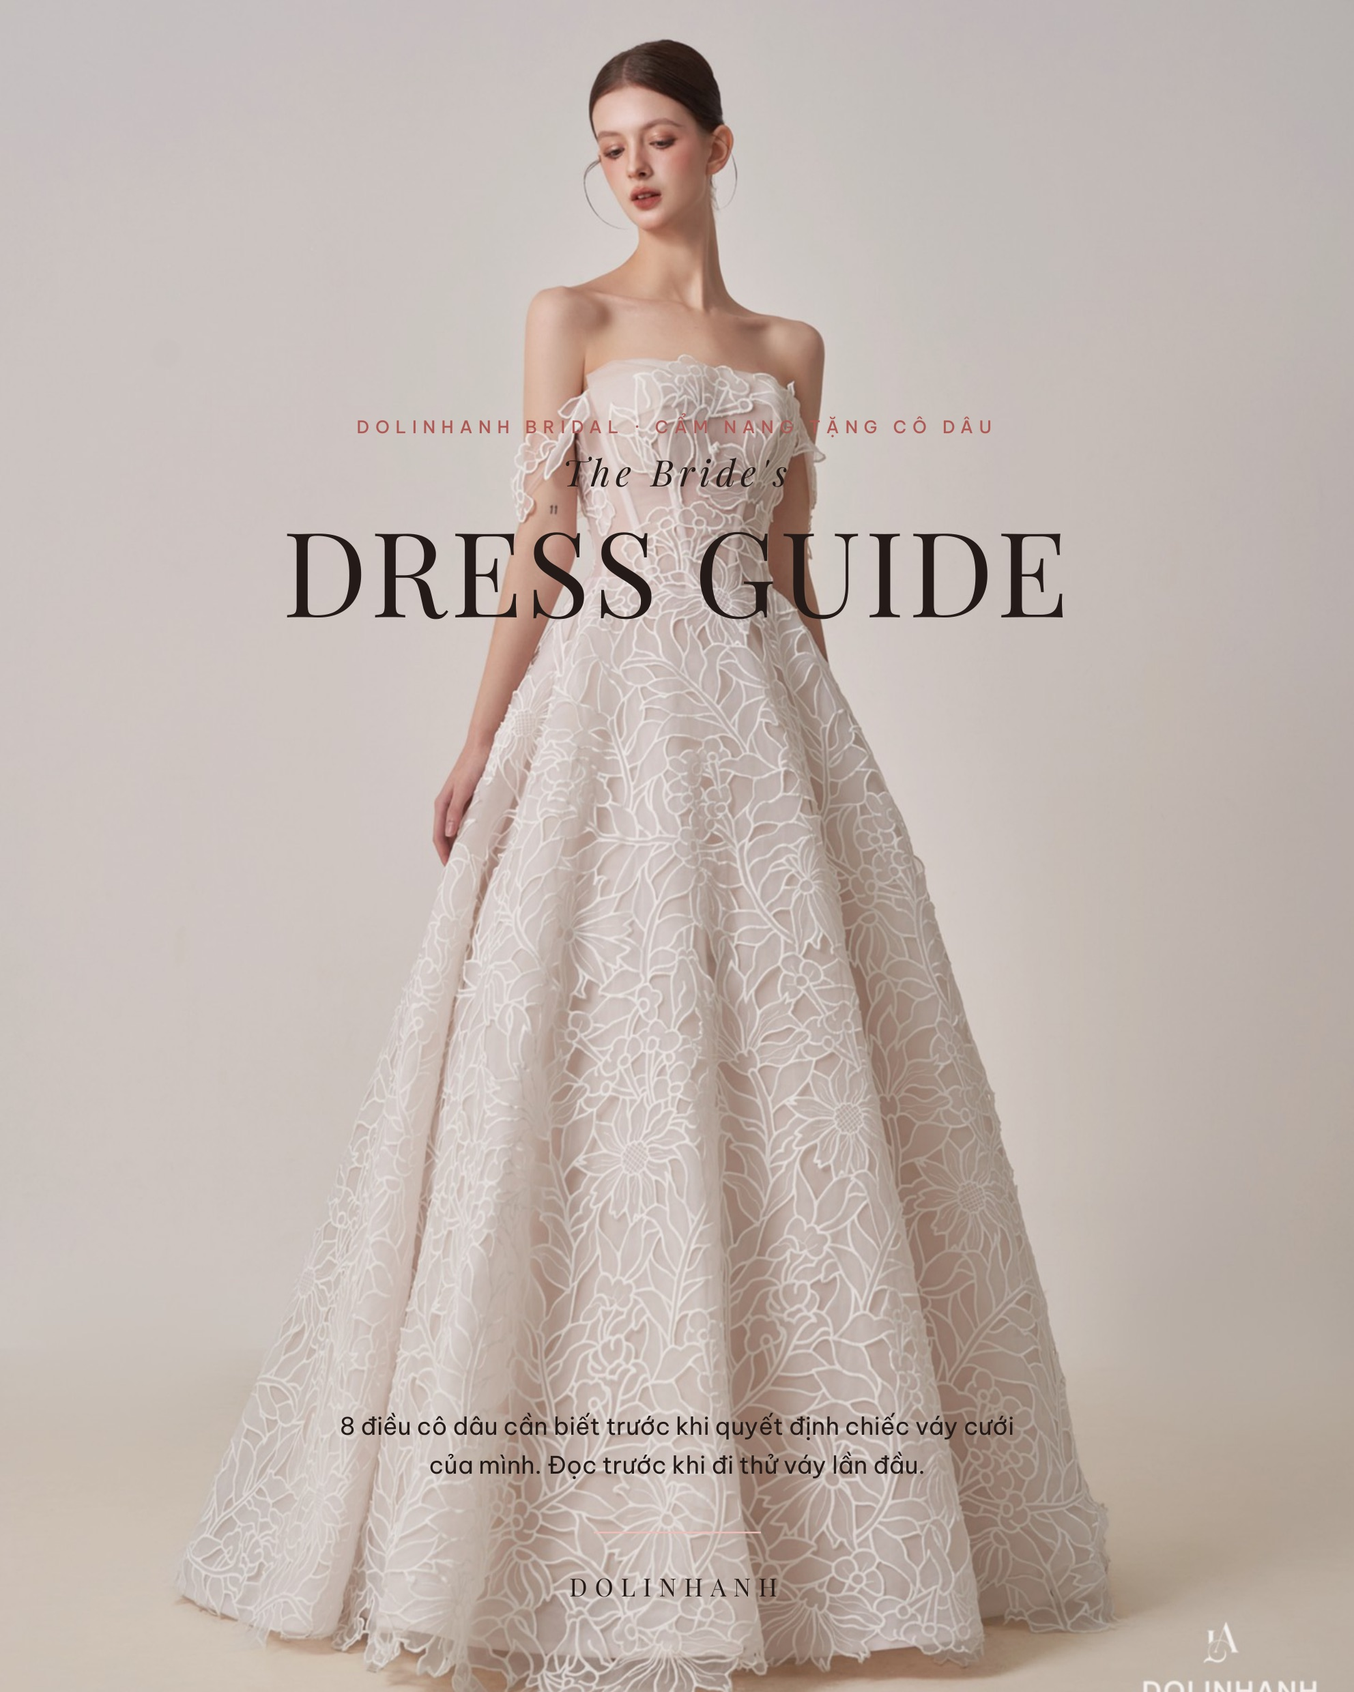
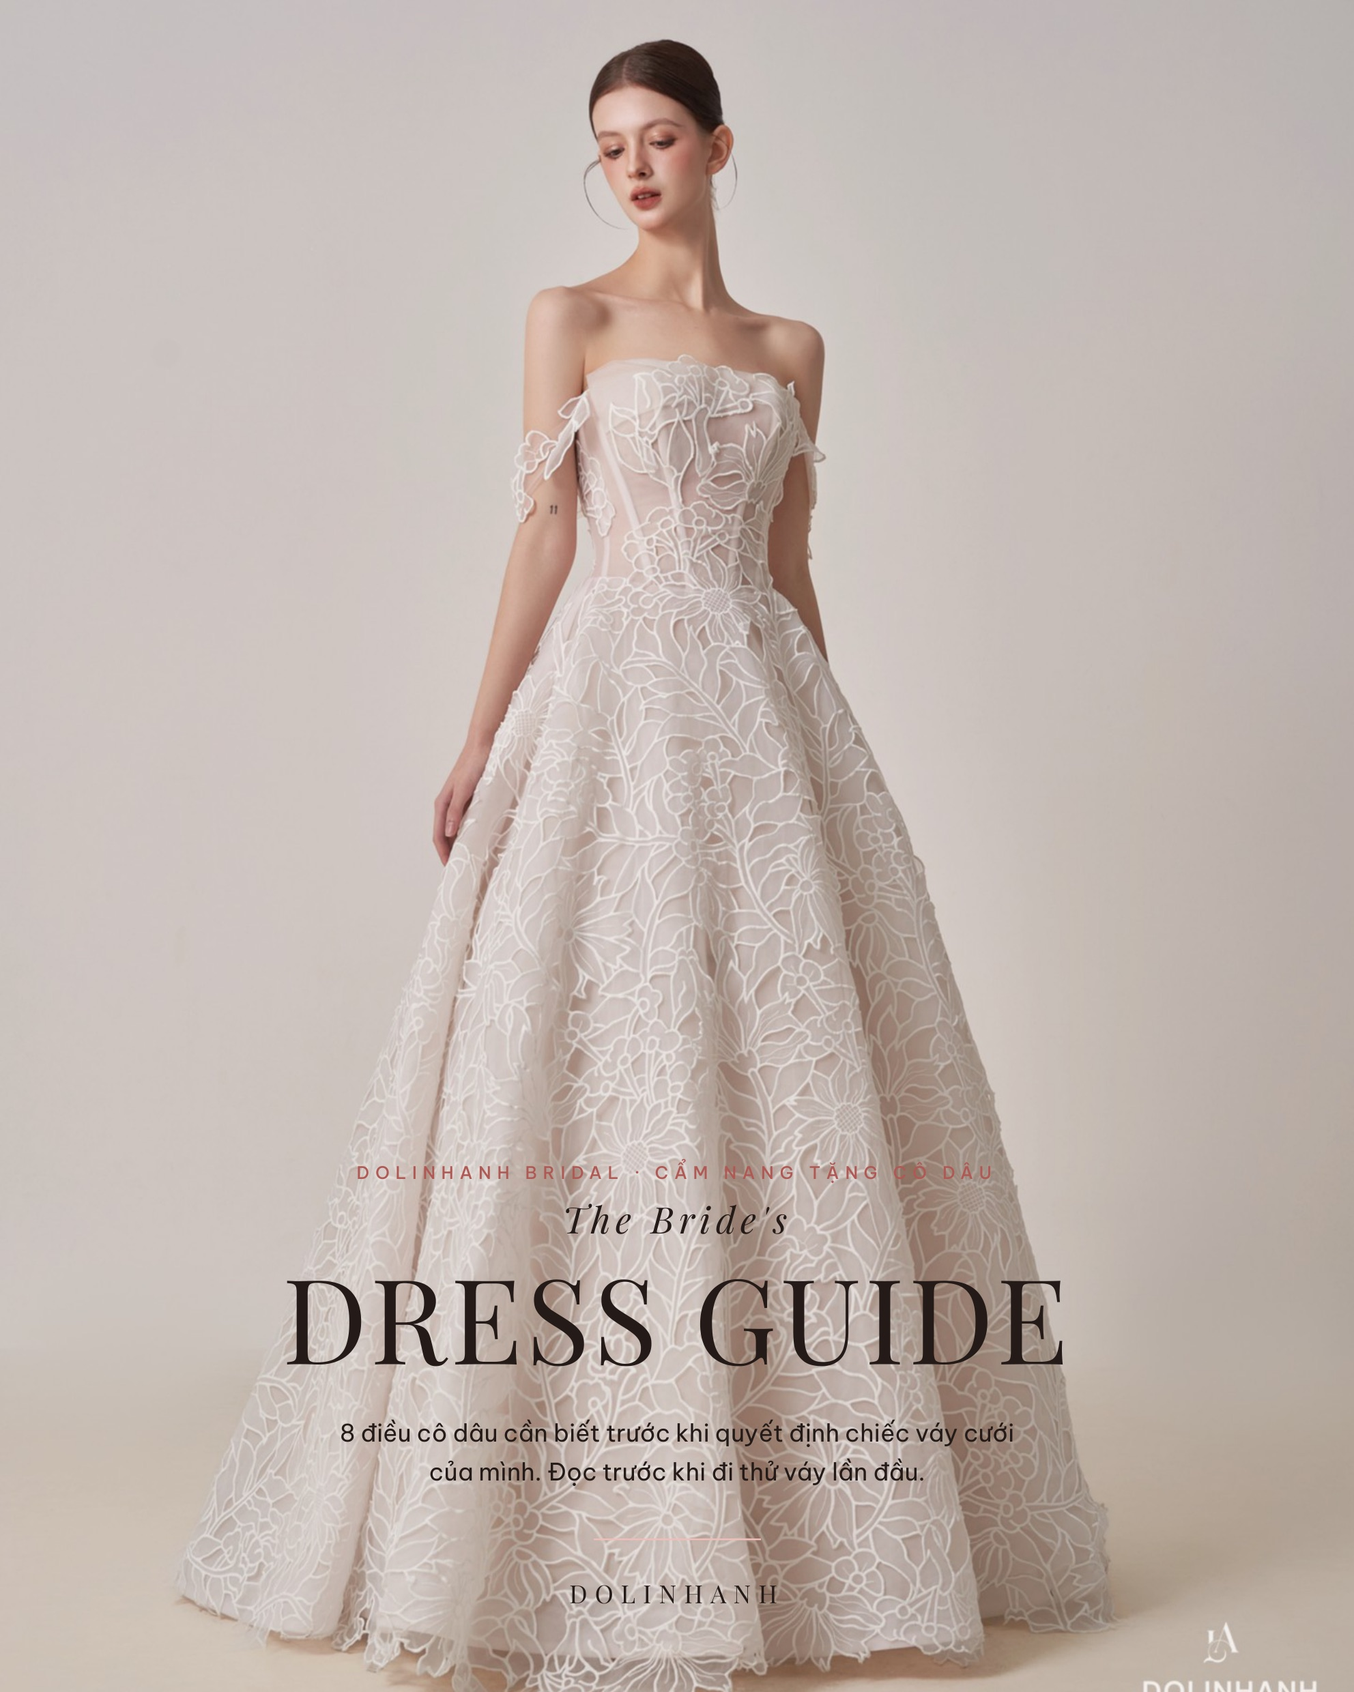
Ebook: bia - cum chu don xuong chan trang (v y291046)

diff --git a/dress-guide.html b/dress-guide.html
@@ -4,7 +4,7 @@
 <meta charset="utf-8">
 <meta name="viewport" content="width=device-width,initial-scale=1">
 <meta name="description" content="Cẩm nang tặng cô dâu: 7 điều cần biết trước khi chọn váy cưới — Dolinhanh Bridal.">
-<script>window.__ANH__=["dress-guide/t01.jpg?v=y291043", "dress-guide/t02.jpg?v=y291043", "dress-guide/t03.jpg?v=y291043", "dress-guide/t04.jpg?v=y291043", "dress-guide/t05.jpg?v=y291043", "dress-guide/t06.jpg?v=y291043", "dress-guide/t07.jpg?v=y291043", "dress-guide/t08.jpg?v=y291043", "dress-guide/t09.jpg?v=y291043", "dress-guide/t10.jpg?v=y291043", "dress-guide/t11.jpg?v=y291043", "dress-guide/t12.jpg?v=y291043", "dress-guide/t13.jpg?v=y291043", "dress-guide/t14.jpg?v=y291043", "dress-guide/t15.jpg?v=y291043", "dress-guide/t16.jpg?v=y291043", "dress-guide/t17.jpg?v=y291043", "dress-guide/t18.jpg?v=y291043", "dress-guide/t19.jpg?v=y291043", "dress-guide/t20.jpg?v=y291043", "dress-guide/t21.jpg?v=y291043", "dress-guide/t22.jpg?v=y291043", "dress-guide/t23.jpg?v=y291043", "dress-guide/t24.jpg?v=y291043", "dress-guide/t25.jpg?v=y291043", "dress-guide/t26.jpg?v=y291043", "dress-guide/t27.jpg?v=y291043"];window.__ANH_DT__=["dress-guide-dt/t001.jpg?v=y291043", "dress-guide-dt/t002.jpg?v=y291043", "dress-guide-dt/t003.jpg?v=y291043", "dress-guide-dt/t004.jpg?v=y291043", "dress-guide-dt/t005.jpg?v=y291043", "dress-guide-dt/t006.jpg?v=y291043", "dress-guide-dt/t007.jpg?v=y291043", "dress-guide-dt/t008.jpg?v=y291043", "dress-guide-dt/t009.jpg?v=y291043", "dress-guide-dt/t010.jpg?v=y291043", "dress-guide-dt/t011.jpg?v=y291043", "dress-guide-dt/t012.jpg?v=y291043", "dress-guide-dt/t013.jpg?v=y291043", "dress-guide-dt/t014.jpg?v=y291043", "dress-guide-dt/t015.jpg?v=y291043", "dress-guide-dt/t016.jpg?v=y291043", "dress-guide-dt/t017.jpg?v=y291043", "dress-guide-dt/t018.jpg?v=y291043", "dress-guide-dt/t019.jpg?v=y291043", "dress-guide-dt/t020.jpg?v=y291043", "dress-guide-dt/t021.jpg?v=y291043", "dress-guide-dt/t022.jpg?v=y291043", "dress-guide-dt/t023.jpg?v=y291043", "dress-guide-dt/t024.jpg?v=y291043", "dress-guide-dt/t025.jpg?v=y291043", "dress-guide-dt/t026.jpg?v=y291043", "dress-guide-dt/t027.jpg?v=y291043", "dress-guide-dt/t028.jpg?v=y291043", "dress-guide-dt/t029.jpg?v=y291043", "dress-guide-dt/t030.jpg?v=y291043", "dress-guide-dt/t031.jpg?v=y291043", "dress-guide-dt/t032.jpg?v=y291043", "dress-guide-dt/t033.jpg?v=y291043", "dress-guide-dt/t034.jpg?v=y291043", "dress-guide-dt/t035.jpg?v=y291043", "dress-guide-dt/t036.jpg?v=y291043", "dress-guide-dt/t037.jpg?v=y291043", "dress-guide-dt/t038.jpg?v=y291043", "dress-guide-dt/t039.jpg?v=y291043", "dress-guide-dt/t040.jpg?v=y291043", "dress-guide-dt/t041.jpg?v=y291043", "dress-guide-dt/t042.jpg?v=y291043", "dress-guide-dt/t043.jpg?v=y291043", "dress-guide-dt/t044.jpg?v=y291043", "dress-guide-dt/t045.jpg?v=y291043", "dress-guide-dt/t046.jpg?v=y291043", "dress-guide-dt/t047.jpg?v=y291043", "dress-guide-dt/t048.jpg?v=y291043", "dress-guide-dt/t049.jpg?v=y291043"];window.__TI_DT__=1.777;window.__DIEM_DT__=[{"nhan": "Đọc vị bản thân", "ten": "Làm bài trắc nghiệm tại đây", "mo": "", "quiz": true, "p": 6, "x": 0.2713, "y": 0.1401, "w": 0.4323, "h": 0.0265}, {"nhan": "Chuẩn bị trước buổi thử", "ten": "Đồ lót nào mặc được?", "mo": "Nguyên tắc chung: màu nude, không quai, không gọng to, không đường viền. Bốn kiểu trong hình đều dùng được cho gần như mọi mẫu váy. Phần lớn váy cưới đã có corset nâng và mút đệm ngực khâu sẵn — nhiều cô dâu chỉ mặc quần lót nude là đủ.", "p": 10, "x": 0.213, "y": 0.2374, "w": 0.2757, "h": 0.0278, "toi": 12, "anh": "dress-guide/hs-dolot.jpg?v=y291043"}, {"nhan": "Chuẩn bị trước buổi thử", "ten": "Ngày cưới nên mang mấy đôi?", "mo": "Ba đôi là đủ cho mọi tình huống. Đế bánh mì đi trong váy xoè — tùng váy che kín dép, đứng cả buổi không mỏi chân. Cao gót cho những mẫu hở chân như đuôi cá hay xẻ tà, gót 5–7cm là vừa. Và một đôi đế thấp để trong phòng chờ, khi chân đã mỏi thì thay ra.", "p": 10, "x": 0.138, "y": 0.3438, "w": 0.7211, "h": 0.0571, "toi": 14, "anh": "dress-guide/hs-giay.jpg?v=y291043"}, {"nhan": "Chuẩn bị trước buổi thử", "ten": "Vì sao lại là 5 mẫu?", "mo": "Năm mẫu vừa đủ để so bốn dáng cơ bản và thêm một mẫu “lạ” cho biết, mà không loạn. Gửi trước danh sách cho shop để váy được treo sẵn — đỡ mất ba mươi phút đầu buổi chỉ để đi tìm váy.", "p": 10, "x": 0.5176, "y": 0.6563, "w": 0.3832, "h": 0.0278}, {"nhan": "Bước tiếp theo", "ten": "Cẩm nang cưới — 99.000đ", "mo": "Năm mươi tám trang, sáu chặng, mỗi chặng một màu và có ảnh riêng. Mở đầu bằng bài trắc nghiệm tính cách theo DISC cho cả hai người, rồi tới 30 câu hai người phải hỏi nhau, hai gia đình, sáu tháng chuẩn bị (gồm trọn phần chọn váy), ngày cưới, và phần sau đám cưới.", "lien": "https://dolinhanh-bridal.github.io/web-thu/mua-planner.html", "nutChu": "Xem thử vài trang", "p": 48, "x": 0.1372, "y": 0.4388, "w": 0.2862, "h": 0.1902, "anh": "dress-guide/hs-planner.jpg?v=y291043"}, {"nhan": "Bước tiếp theo", "ten": "Nhắn Zalo để nhận file", "mo": "Chuyển khoản xong, bạn nhắn ảnh chụp màn hình tới Zalo 035 995 0588. Dolinhanh gửi lại file PDF và đường dẫn đọc trên điện thoại ngay trong ngày.", "lien": "https://zalo.me/0359950588", "nutChu": "Mở Zalo 035 995 0588", "p": 48, "x": 0.3828, "y": 0.7382, "w": 0.2156, "h": 0.0251}];window.__DIEM__=[{"nhan": "Đọc vị bản thân", "ten": "Làm bài trắc nghiệm tại đây", "mo": "", "quiz": true, "p": 5, "x": 0.2013, "y": 0.153, "w": 0.2397, "h": 0.0207}, {"nhan": "Chuẩn bị trước buổi thử", "ten": "Đồ lót nào mặc được?", "mo": "Nguyên tắc chung: màu nude, không quai, không gọng to, không đường viền. Bốn kiểu trong hình đều dùng được cho gần như mọi mẫu váy. Phần lớn váy cưới đã có corset nâng và mút đệm ngực khâu sẵn — nhiều cô dâu chỉ mặc quần lót nude là đủ.", "p": 7, "x": 0.1707, "y": 0.2032, "w": 0.1469, "h": 0.0211, "toi": 8, "anh": "dress-guide/hs-dolot.jpg?v=y291043"}, {"nhan": "Chuẩn bị trước buổi thử", "ten": "Ngày cưới nên mang mấy đôi?", "mo": "Ba đôi là đủ cho mọi tình huống. Đế bánh mì đi trong váy xoè — tùng váy che kín dép, đứng cả buổi không mỏi chân. Cao gót cho những mẫu hở chân như đuôi cá hay xẻ tà, gót 5–7cm là vừa. Và một đôi đế thấp để trong phòng chờ, khi chân đã mỏi thì thay ra.", "p": 7, "x": 0.2229, "y": 0.2616, "w": 0.4041, "h": 0.0211, "toi": 9, "anh": "dress-guide/hs-giay.jpg?v=y291043"}, {"nhan": "Chuẩn bị trước buổi thử", "ten": "Vì sao lại là 5 mẫu?", "mo": "Năm mẫu vừa đủ để so bốn dáng cơ bản và thêm một mẫu “lạ” cho biết, mà không loạn. Gửi trước danh sách cho shop để váy được treo sẵn — đỡ mất ba mươi phút đầu buổi chỉ để đi tìm váy.", "p": 7, "x": 0.333, "y": 0.4108, "w": 0.2042, "h": 0.0211}, {"nhan": "Bước tiếp theo", "ten": "Cẩm nang cưới — 99.000đ", "mo": "Năm mươi tám trang, sáu chặng, mỗi chặng một màu và có ảnh riêng. Mở đầu bằng bài trắc nghiệm tính cách theo DISC cho cả hai người, rồi tới 30 câu hai người phải hỏi nhau, hai gia đình, sáu tháng chuẩn bị (gồm trọn phần chọn váy), ngày cưới, và phần sau đám cưới.", "lien": "https://dolinhanh-bridal.github.io/web-thu/mua-planner.html", "nutChu": "Xem thử vài trang", "p": 26, "x": 0.1248, "y": 0.7732, "w": 0.1525, "h": 0.1442, "anh": "dress-guide/hs-planner.jpg?v=y291043"}, {"nhan": "Bước tiếp theo", "ten": "Nhắn Zalo để nhận file", "mo": "Chuyển khoản xong, bạn nhắn ảnh chụp màn hình tới Zalo 035 995 0588. Dolinhanh gửi lại file PDF và đường dẫn đọc trên điện thoại ngay trong ngày.", "lien": "https://zalo.me/0359950588", "nutChu": "Mở Zalo 035 995 0588", "p": 26, "x": 0.3035, "y": 0.858, "w": 0.1149, "h": 0.0191}];</script>
+<script>window.__ANH__=["dress-guide/t01.jpg?v=y291046", "dress-guide/t02.jpg?v=y291046", "dress-guide/t03.jpg?v=y291046", "dress-guide/t04.jpg?v=y291046", "dress-guide/t05.jpg?v=y291046", "dress-guide/t06.jpg?v=y291046", "dress-guide/t07.jpg?v=y291046", "dress-guide/t08.jpg?v=y291046", "dress-guide/t09.jpg?v=y291046", "dress-guide/t10.jpg?v=y291046", "dress-guide/t11.jpg?v=y291046", "dress-guide/t12.jpg?v=y291046", "dress-guide/t13.jpg?v=y291046", "dress-guide/t14.jpg?v=y291046", "dress-guide/t15.jpg?v=y291046", "dress-guide/t16.jpg?v=y291046", "dress-guide/t17.jpg?v=y291046", "dress-guide/t18.jpg?v=y291046", "dress-guide/t19.jpg?v=y291046", "dress-guide/t20.jpg?v=y291046", "dress-guide/t21.jpg?v=y291046", "dress-guide/t22.jpg?v=y291046", "dress-guide/t23.jpg?v=y291046", "dress-guide/t24.jpg?v=y291046", "dress-guide/t25.jpg?v=y291046", "dress-guide/t26.jpg?v=y291046", "dress-guide/t27.jpg?v=y291046"];window.__ANH_DT__=["dress-guide-dt/t001.jpg?v=y291046", "dress-guide-dt/t002.jpg?v=y291046", "dress-guide-dt/t003.jpg?v=y291046", "dress-guide-dt/t004.jpg?v=y291046", "dress-guide-dt/t005.jpg?v=y291046", "dress-guide-dt/t006.jpg?v=y291046", "dress-guide-dt/t007.jpg?v=y291046", "dress-guide-dt/t008.jpg?v=y291046", "dress-guide-dt/t009.jpg?v=y291046", "dress-guide-dt/t010.jpg?v=y291046", "dress-guide-dt/t011.jpg?v=y291046", "dress-guide-dt/t012.jpg?v=y291046", "dress-guide-dt/t013.jpg?v=y291046", "dress-guide-dt/t014.jpg?v=y291046", "dress-guide-dt/t015.jpg?v=y291046", "dress-guide-dt/t016.jpg?v=y291046", "dress-guide-dt/t017.jpg?v=y291046", "dress-guide-dt/t018.jpg?v=y291046", "dress-guide-dt/t019.jpg?v=y291046", "dress-guide-dt/t020.jpg?v=y291046", "dress-guide-dt/t021.jpg?v=y291046", "dress-guide-dt/t022.jpg?v=y291046", "dress-guide-dt/t023.jpg?v=y291046", "dress-guide-dt/t024.jpg?v=y291046", "dress-guide-dt/t025.jpg?v=y291046", "dress-guide-dt/t026.jpg?v=y291046", "dress-guide-dt/t027.jpg?v=y291046", "dress-guide-dt/t028.jpg?v=y291046", "dress-guide-dt/t029.jpg?v=y291046", "dress-guide-dt/t030.jpg?v=y291046", "dress-guide-dt/t031.jpg?v=y291046", "dress-guide-dt/t032.jpg?v=y291046", "dress-guide-dt/t033.jpg?v=y291046", "dress-guide-dt/t034.jpg?v=y291046", "dress-guide-dt/t035.jpg?v=y291046", "dress-guide-dt/t036.jpg?v=y291046", "dress-guide-dt/t037.jpg?v=y291046", "dress-guide-dt/t038.jpg?v=y291046", "dress-guide-dt/t039.jpg?v=y291046", "dress-guide-dt/t040.jpg?v=y291046", "dress-guide-dt/t041.jpg?v=y291046", "dress-guide-dt/t042.jpg?v=y291046", "dress-guide-dt/t043.jpg?v=y291046", "dress-guide-dt/t044.jpg?v=y291046", "dress-guide-dt/t045.jpg?v=y291046", "dress-guide-dt/t046.jpg?v=y291046", "dress-guide-dt/t047.jpg?v=y291046", "dress-guide-dt/t048.jpg?v=y291046", "dress-guide-dt/t049.jpg?v=y291046"];window.__TI_DT__=1.777;window.__DIEM_DT__=[{"nhan": "Đọc vị bản thân", "ten": "Làm bài trắc nghiệm tại đây", "mo": "", "quiz": true, "p": 6, "x": 0.2713, "y": 0.1401, "w": 0.4323, "h": 0.0265}, {"nhan": "Chuẩn bị trước buổi thử", "ten": "Đồ lót nào mặc được?", "mo": "Nguyên tắc chung: màu nude, không quai, không gọng to, không đường viền. Bốn kiểu trong hình đều dùng được cho gần như mọi mẫu váy. Phần lớn váy cưới đã có corset nâng và mút đệm ngực khâu sẵn — nhiều cô dâu chỉ mặc quần lót nude là đủ.", "p": 10, "x": 0.213, "y": 0.2374, "w": 0.2757, "h": 0.0278, "toi": 12, "anh": "dress-guide/hs-dolot.jpg?v=y291046"}, {"nhan": "Chuẩn bị trước buổi thử", "ten": "Ngày cưới nên mang mấy đôi?", "mo": "Ba đôi là đủ cho mọi tình huống. Đế bánh mì đi trong váy xoè — tùng váy che kín dép, đứng cả buổi không mỏi chân. Cao gót cho những mẫu hở chân như đuôi cá hay xẻ tà, gót 5–7cm là vừa. Và một đôi đế thấp để trong phòng chờ, khi chân đã mỏi thì thay ra.", "p": 10, "x": 0.138, "y": 0.3438, "w": 0.7211, "h": 0.0571, "toi": 14, "anh": "dress-guide/hs-giay.jpg?v=y291046"}, {"nhan": "Chuẩn bị trước buổi thử", "ten": "Vì sao lại là 5 mẫu?", "mo": "Năm mẫu vừa đủ để so bốn dáng cơ bản và thêm một mẫu “lạ” cho biết, mà không loạn. Gửi trước danh sách cho shop để váy được treo sẵn — đỡ mất ba mươi phút đầu buổi chỉ để đi tìm váy.", "p": 10, "x": 0.5176, "y": 0.6563, "w": 0.3832, "h": 0.0278}, {"nhan": "Bước tiếp theo", "ten": "Cẩm nang cưới — 99.000đ", "mo": "Năm mươi tám trang, sáu chặng, mỗi chặng một màu và có ảnh riêng. Mở đầu bằng bài trắc nghiệm tính cách theo DISC cho cả hai người, rồi tới 30 câu hai người phải hỏi nhau, hai gia đình, sáu tháng chuẩn bị (gồm trọn phần chọn váy), ngày cưới, và phần sau đám cưới.", "lien": "https://dolinhanh-bridal.github.io/web-thu/mua-planner.html", "nutChu": "Xem thử vài trang", "p": 48, "x": 0.1372, "y": 0.4388, "w": 0.2862, "h": 0.1902, "anh": "dress-guide/hs-planner.jpg?v=y291046"}, {"nhan": "Bước tiếp theo", "ten": "Nhắn Zalo để nhận file", "mo": "Chuyển khoản xong, bạn nhắn ảnh chụp màn hình tới Zalo 035 995 0588. Dolinhanh gửi lại file PDF và đường dẫn đọc trên điện thoại ngay trong ngày.", "lien": "https://zalo.me/0359950588", "nutChu": "Mở Zalo 035 995 0588", "p": 48, "x": 0.3828, "y": 0.7382, "w": 0.2156, "h": 0.0251}];window.__DIEM__=[{"nhan": "Đọc vị bản thân", "ten": "Làm bài trắc nghiệm tại đây", "mo": "", "quiz": true, "p": 5, "x": 0.2013, "y": 0.153, "w": 0.2397, "h": 0.0207}, {"nhan": "Chuẩn bị trước buổi thử", "ten": "Đồ lót nào mặc được?", "mo": "Nguyên tắc chung: màu nude, không quai, không gọng to, không đường viền. Bốn kiểu trong hình đều dùng được cho gần như mọi mẫu váy. Phần lớn váy cưới đã có corset nâng và mút đệm ngực khâu sẵn — nhiều cô dâu chỉ mặc quần lót nude là đủ.", "p": 7, "x": 0.1707, "y": 0.2032, "w": 0.1469, "h": 0.0211, "toi": 8, "anh": "dress-guide/hs-dolot.jpg?v=y291046"}, {"nhan": "Chuẩn bị trước buổi thử", "ten": "Ngày cưới nên mang mấy đôi?", "mo": "Ba đôi là đủ cho mọi tình huống. Đế bánh mì đi trong váy xoè — tùng váy che kín dép, đứng cả buổi không mỏi chân. Cao gót cho những mẫu hở chân như đuôi cá hay xẻ tà, gót 5–7cm là vừa. Và một đôi đế thấp để trong phòng chờ, khi chân đã mỏi thì thay ra.", "p": 7, "x": 0.2229, "y": 0.2616, "w": 0.4041, "h": 0.0211, "toi": 9, "anh": "dress-guide/hs-giay.jpg?v=y291046"}, {"nhan": "Chuẩn bị trước buổi thử", "ten": "Vì sao lại là 5 mẫu?", "mo": "Năm mẫu vừa đủ để so bốn dáng cơ bản và thêm một mẫu “lạ” cho biết, mà không loạn. Gửi trước danh sách cho shop để váy được treo sẵn — đỡ mất ba mươi phút đầu buổi chỉ để đi tìm váy.", "p": 7, "x": 0.333, "y": 0.4108, "w": 0.2042, "h": 0.0211}, {"nhan": "Bước tiếp theo", "ten": "Cẩm nang cưới — 99.000đ", "mo": "Năm mươi tám trang, sáu chặng, mỗi chặng một màu và có ảnh riêng. Mở đầu bằng bài trắc nghiệm tính cách theo DISC cho cả hai người, rồi tới 30 câu hai người phải hỏi nhau, hai gia đình, sáu tháng chuẩn bị (gồm trọn phần chọn váy), ngày cưới, và phần sau đám cưới.", "lien": "https://dolinhanh-bridal.github.io/web-thu/mua-planner.html", "nutChu": "Xem thử vài trang", "p": 26, "x": 0.1248, "y": 0.7732, "w": 0.1525, "h": 0.1442, "anh": "dress-guide/hs-planner.jpg?v=y291046"}, {"nhan": "Bước tiếp theo", "ten": "Nhắn Zalo để nhận file", "mo": "Chuyển khoản xong, bạn nhắn ảnh chụp màn hình tới Zalo 035 995 0588. Dolinhanh gửi lại file PDF và đường dẫn đọc trên điện thoại ngay trong ngày.", "lien": "https://zalo.me/0359950588", "nutChu": "Mở Zalo 035 995 0588", "p": 26, "x": 0.3035, "y": 0.858, "w": 0.1149, "h": 0.0191}];</script>
 </head>
 <body>
 <title>The Bride's Dress Guide</title>

diff --git a/dress-guide-doc.html b/dress-guide-doc.html
@@ -76,12 +76,12 @@
   .bia{position:relative;width:210mm;height:262.5mm;overflow:hidden;page-break-after:always;background:var(--giay)}
   .bia img{position:absolute;inset:0;width:100%;height:100%;object-fit:cover;object-position:50% 30%}
   .bia .phu-toi{position:absolute;inset:0;background:linear-gradient(180deg,rgba(36,27,25,.30) 0%,rgba(36,27,25,.04) 34%,rgba(36,27,25,.30) 72%,rgba(36,27,25,.66) 100%)}
-  .bia .noi{position:absolute;inset:0;padding:64mm 16mm 13mm;display:flex;flex-direction:column;align-items:center;text-align:center;color:var(--muc)}
+  .bia .noi{position:absolute;inset:0;padding:15mm 16mm 12mm;display:flex;flex-direction:column;justify-content:flex-end;align-items:center;text-align:center;color:var(--muc)}
   .bia .tren{font-family:var(--sans);font-size:7.6pt;font-weight:500;letter-spacing:.34em;text-transform:uppercase;color:var(--hong-chu);text-align:center}
   .bia .giua{display:contents}
   .bia h1{font-family:var(--serif);color:var(--muc);font-size:52pt;line-height:1;letter-spacing:.03em;margin-top:2mm;white-space:nowrap}
   .bia h1 .nho{display:block;font-size:16pt;letter-spacing:.14em;margin-bottom:3mm;font-style:italic}
-  .bia .dan{margin-top:auto;max-width:112mm;font-size:10.6pt;color:var(--muc);line-height:1.65;font-weight:400}
+  .bia .dan{margin-top:6mm;max-width:112mm;font-size:10.6pt;color:var(--muc);line-height:1.65;font-weight:400}
   .bia .ke{width:26mm;height:1.5px;background:var(--hong);margin:7mm auto 5mm}
   .bia .th{font-family:var(--serif);font-size:11pt;letter-spacing:.3em;text-transform:uppercase;color:var(--muc)}
 
@@ -285,12 +285,12 @@ body{height:auto!important;overflow:visible!important;background:var(--giay,#fff
      object-position:50% 30%}
 .bia .phu-toi{display:none!important}
 .bia .noi{position:absolute!important;inset:0;padding:26px 18px 22px!important;display:flex!important;
-     flex-direction:column;align-items:center;color:var(--muc)!important;text-align:center}
+     flex-direction:column;justify-content:flex-end;align-items:center;color:var(--muc)!important;text-align:center}
 .bia .giua{display:contents!important}
 .bia .noi .tren{color:var(--muc)!important}
 .bia .noi h1,.bia .noi .th{color:var(--muc)!important}
 .bia .noi h1{white-space:nowrap;font-size:34px!important}
-.bia .noi .dan{color:var(--muc)!important;max-width:none!important;margin-top:auto!important}
+.bia .noi .dan{color:var(--muc)!important;max-width:none!important;margin-top:14px!important}
 .bia .noi .ke{margin:20px auto!important}
 .bia h1{margin-top:22px!important;font-size:34px!important}
 .bia .ke{margin:22px auto!important}
